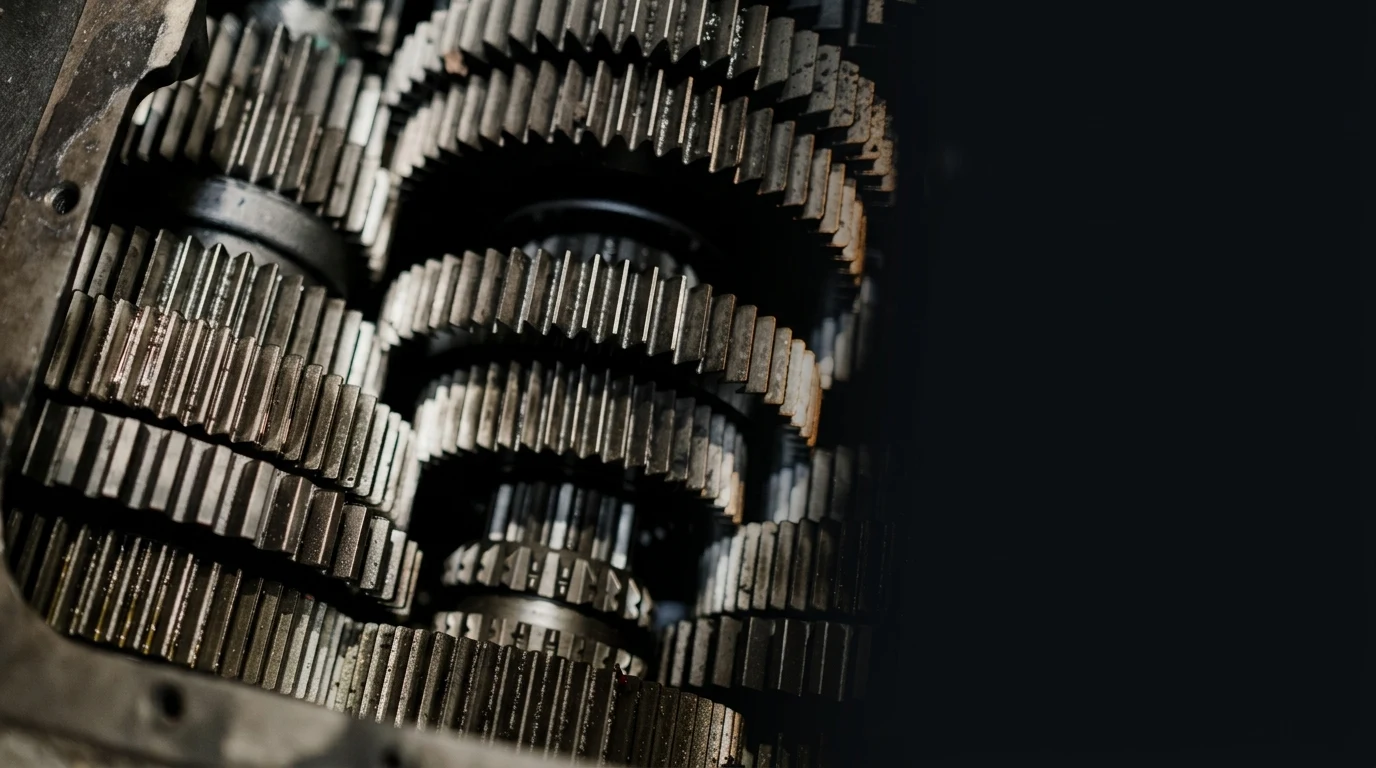
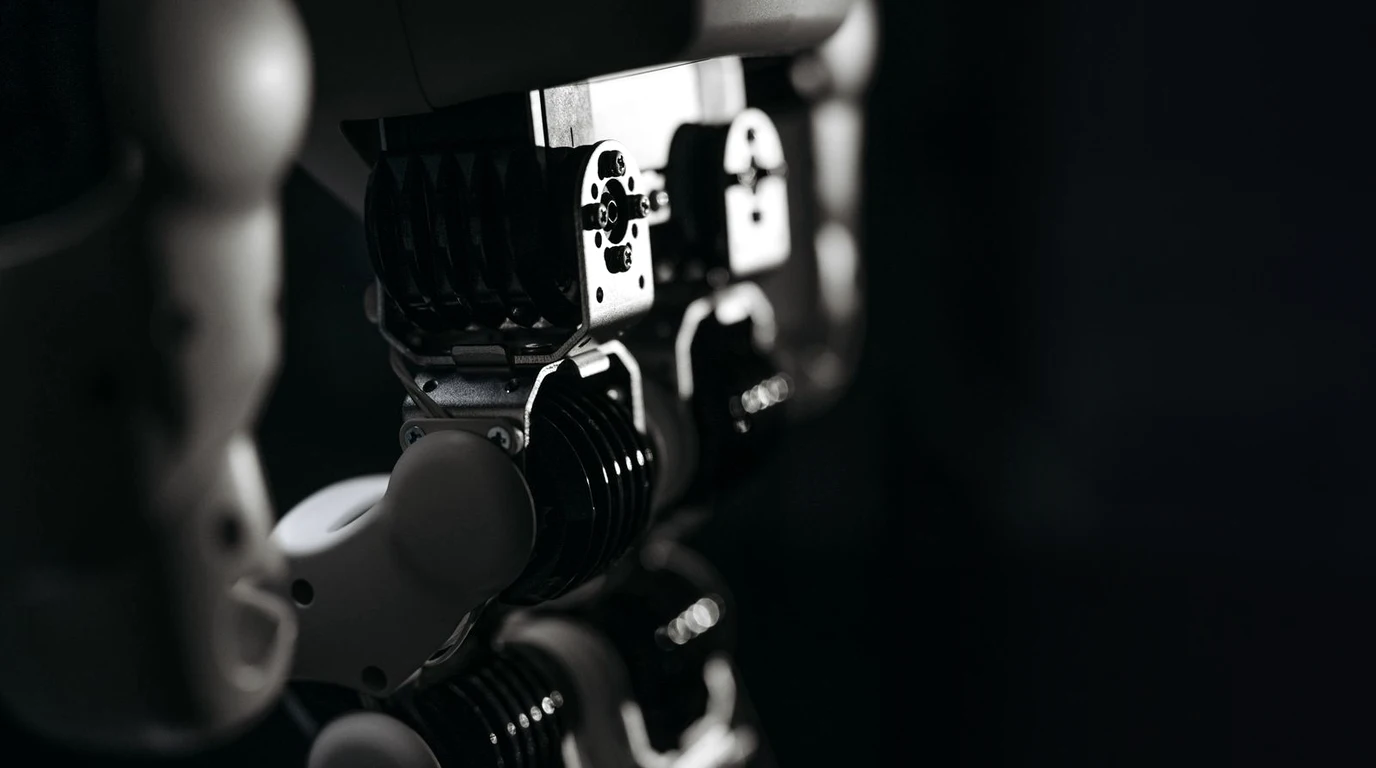
assets(ui): align hero, DFMA, R&D 3D printer, mentorship visuals and heading contrast

diff --git a/wp-content/themes/machinedesign-theme/style.css b/wp-content/themes/machinedesign-theme/style.css
@@ -4214,10 +4214,11 @@ textarea.rfq-input-field {
   border-radius: 6px;
 }
 
+.feature-desc h3,
 .feature-desc h4 {
   font-size: 1.05rem;
   font-weight: 800;
-  color: var(--color-primary, #121824);
+  color: var(--color-ink, #0F172A);
   margin: 0 0 6px 0;
 }
 

diff --git a/wp-content/themes/machinedesign-theme/includes/hero-media.php b/wp-content/themes/machinedesign-theme/includes/hero-media.php
@@ -23,7 +23,7 @@ function md_get_default_hero_renders() {
 	return array(
 		'front-page'              => array(
 			'file'          => 'hero-machine-design.webp',
-			'alt'           => 'مکانیزم سهبعدی ربات دلتا، گیربکس صنعتی و طراحی ماشینآلات دقیق ماشین دیزاین',
+			'alt'           => 'مکانیزم سهبعدی ربات دلتا، عملگر دقیق رباتیک و طراحی ماشینآلات صنعتی ماشین دیزاین',
 			'code'          => 'SYS-00 // INDUSTRIAL MECHANICS',
 			'hud_label'     => 'HIGH-SPEED KINEMATICS',
 			'hud_val'       => 'PARALLEL DELTA ROBOT',
@@ -45,7 +45,7 @@ function md_get_default_hero_renders() {
 		),
 		'machine-design'          => array(
 			'file'          => 'hero-machine-design.webp',
-			'alt'           => 'طراحی ماشینآلات صنعتی، گیربکسهای دقیق و خطوط تولید سفارشی',
+			'alt'           => 'طراحی ماشینآلات صنعتی، مکانیزمهای سروو دقیق و خطوط تولید سفارشی',
 			'code'          => 'PILLAR-01 // DFMA & MACHINERY',
 			'hud_label'     => 'HIGH-SPEED KINEMATICS',
 			'hud_val'       => 'PARALLEL DELTA ROBOT',

diff --git a/wp-content/themes/machinedesign-theme/page-rd-prototyping.php b/wp-content/themes/machinedesign-theme/page-rd-prototyping.php
@@ -247,11 +247,11 @@ get_header();
 
         <div class="services-intro-image-wrap">
           <div class="services-intro-image-frame">
-            <img src="<?php echo esc_url( home_url( '/wp-content/uploads/2026/07/pillar1-machine-design-case.png' ) ); ?>" 
-                 alt="تحلیل مهندسی ریسک و ساخت پروتوتایپ مکانیزم صنعتی" 
+            <img src="<?php echo esc_url( home_url( '/wp-content/uploads/2026/07/pillar3-rd-3dprinter.webp' ) ); ?>" 
+                 alt="پرینتر سهبعدی صنعتی، ساخت نمونه اولیه سریع و تحقیق و توسعه مکانیک R&amp;D" 
                  loading="lazy" 
-                 width="600" 
-                 height="420">
+                 width="800" 
+                 height="600">
             <div class="cad-frame-crosshair cad-top-left" aria-hidden="true"></div>
             <div class="cad-frame-crosshair cad-top-right" aria-hidden="true"></div>
           </div>

diff --git a/wp-content/themes/machinedesign-theme/page-machine-design.php b/wp-content/themes/machinedesign-theme/page-machine-design.php
@@ -244,10 +244,10 @@ get_header();
         <div class="services-intro-image-wrap">
           <div class="services-intro-image-frame">
             <img src="<?php echo esc_url( home_url( '/wp-content/uploads/2026/07/pillar1-machine-design-case.png' ) ); ?>" 
-                 alt="مهندسی و طراحی اجزای ماشینآلات و گیربکس صنعتی" 
+                 alt="طراحی ماشینآلات صنعتی، مکانیزمهای دقیق و سیستمهای خطوط تولید DFMA" 
                  loading="lazy" 
-                 width="600" 
-                 height="420">
+                 width="800" 
+                 height="600">
             <div class="cad-frame-crosshair cad-top-left" aria-hidden="true"></div>
             <div class="cad-frame-crosshair cad-top-right" aria-hidden="true"></div>
           </div>

diff --git a/wp-content/themes/machinedesign-theme/page-engineering-mentorship.php b/wp-content/themes/machinedesign-theme/page-engineering-mentorship.php
@@ -307,8 +307,8 @@ get_header();
 
           <div class="visual-img-wrap">
             <img
-              src="<?php echo esc_url( home_url( '/wp-content/uploads/2026/07/portfolio-fea-800x600.webp' ) ); ?>"
-              alt="مدلسازی و تحلیل تنش مکانیزم صنعتی با سالیدورکس و Ansys"
+              src="<?php echo esc_url( home_url( '/wp-content/uploads/2026/07/pillar4-mentorship-coaching.webp' ) ); ?>"
+              alt="منتورشیپ فردی طراحی ماشین، آموزش SolidWorks و بررسی نقشه اجرایی کارگاهی"
               class="split-feature-img"
               width="800"
               height="600"
